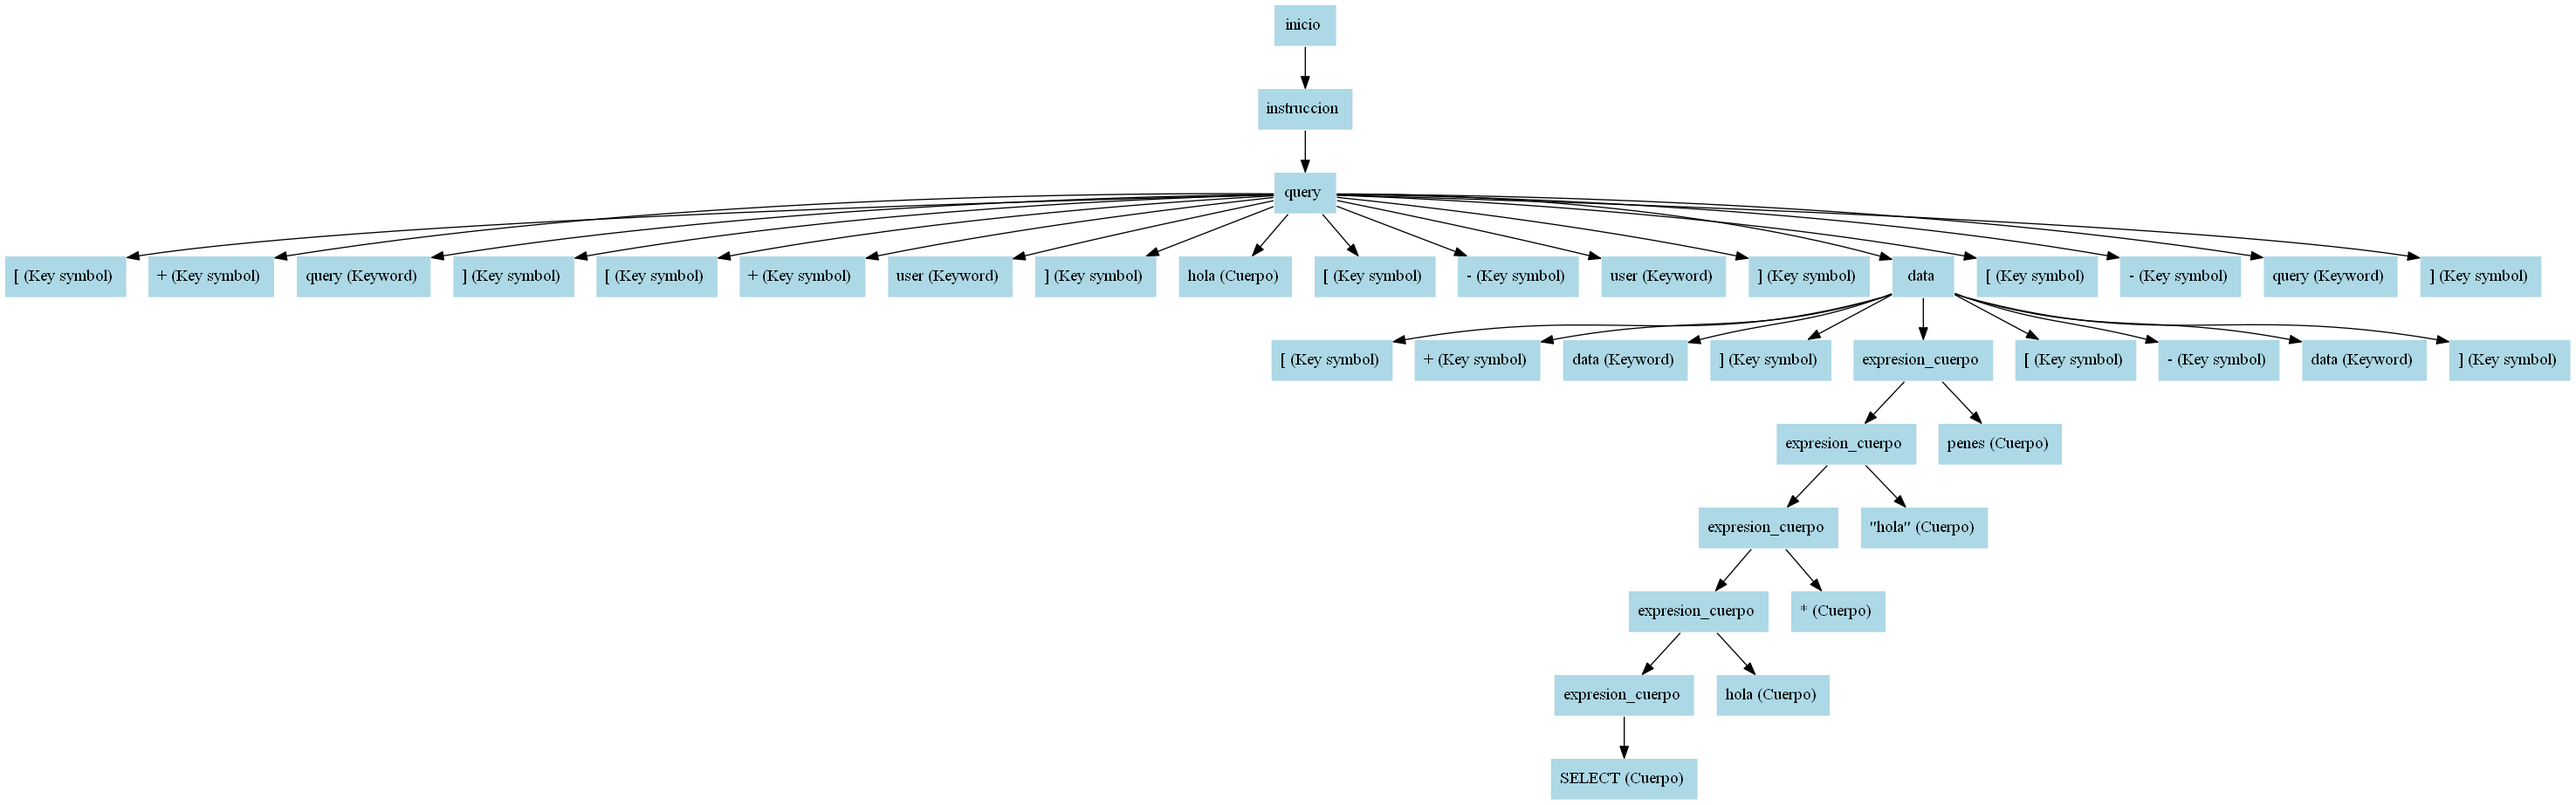
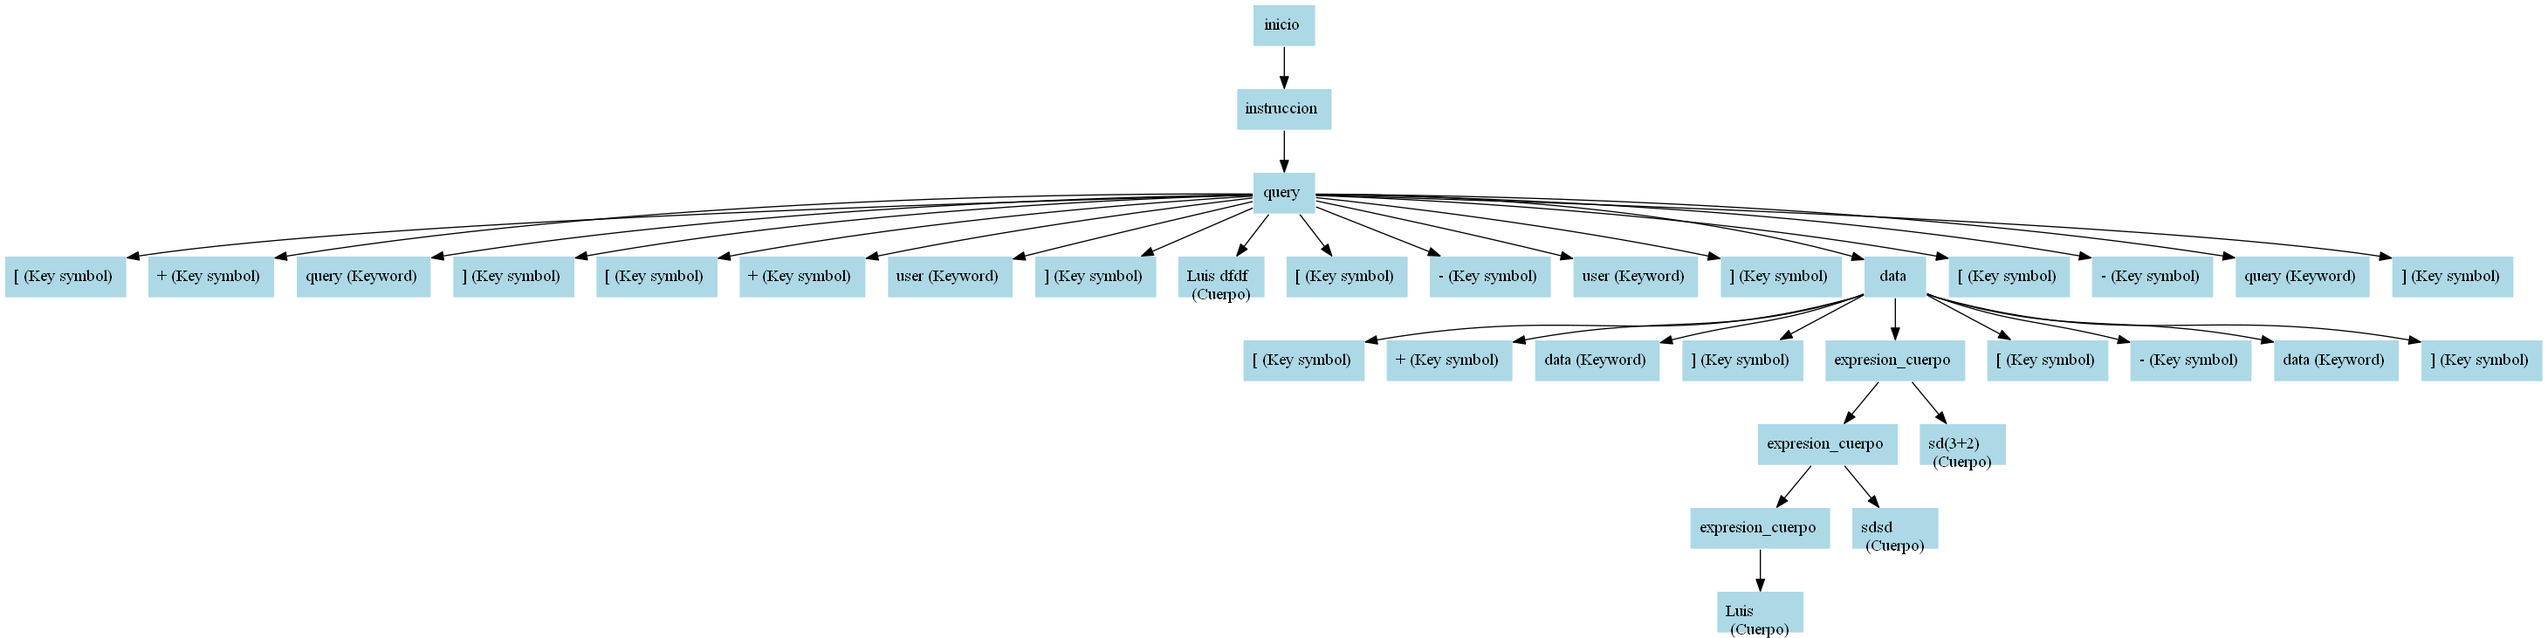
Se corrigio bug en la gramatica donde no aceptaba ( y )

Changed region(s): [[0.0, 0.0, 1.0, 0.9932]]

diff --git a/chat-teacher-server/CQL/Componentes/Expresion.cs b/chat-teacher-server/CQL/Componentes/Expresion.cs
@@ -85,7 +85,7 @@ namespace cql_teacher_server.CQL.Componentes
             //---------------------------------------------------------------------------------------------------------------------------------
 
             //-------------------------------------------------- SUMA -------------------------------------------------------------------------
-            if (operacion.Equals("SUMA"))
+            if (operacion.Equals("SUMA") && op1 != null && op2 != null)
             {
                 if (op1.GetType() == typeof(int) && op2.GetType() == typeof(int)) return (int)op1 + (int)op2;
                 else if (op1.GetType() == typeof(int) && op2.GetType() == typeof(Double)) return (Double)((int)op1 + (Double)op2);
@@ -106,7 +106,7 @@ namespace cql_teacher_server.CQL.Componentes
                 }
             }
             //--------------------------------------------------- RESTA ----------------------------------------------------------------------
-            else if (operacion.Equals("RESTA"))
+            else if (operacion.Equals("RESTA") && op1 != null && op2 != null)
             {
                 if (op1.GetType() == typeof(int) && op2.GetType() == typeof(int)) return (int)op1 - (int)op2;
                 else if (op1.GetType() == typeof(int) && op2.GetType() == typeof(Double)) return (Double)((int)op1 - (Double)op2);
@@ -120,9 +120,9 @@ namespace cql_teacher_server.CQL.Componentes
                 }
             }
             //---------------------------------------------------- MULTIPLICACION --------------------------------------------------------------
-            else if (operacion.Equals("MULTIPLICACION"))
+            else if (operacion.Equals("MULTIPLICACION") && op1 != null && op2 != null)
             {
-                if(op1.GetType() == typeof(int) && op2.GetType() == typeof(int)) return (int)op1 * (int)op2;
+                if (op1.GetType() == typeof(int) && op2.GetType() == typeof(int)) return (int)op1 * (int)op2;
                 else if (op1.GetType() == typeof(int) && op2.GetType() == typeof(Double)) return (Double)((int)op1 * (Double)op2);
                 else if (op1.GetType() == typeof(Double) && op2.GetType() == typeof(int)) return (Double)((Double)op1 * (int)op2);
                 else if (op1.GetType() == typeof(Double) && op2.GetType() == typeof(Double)) return (Double)((Double)op1 * (Double)op2);
@@ -134,12 +134,12 @@ namespace cql_teacher_server.CQL.Componentes
                 }
             }
             //----------------------------------------------------- POTENCIA -------------------------------------------------------------------
-            else if (operacion.Equals("POTENCIA"))
+            else if (operacion.Equals("POTENCIA") && op1 != null && op2 != null)
             {
-                if (op1.GetType() == typeof(int) && op2.GetType() == typeof(int)) return (Double)(Math.Pow((int)op1 , (int)op2));
-                else if (op1.GetType() == typeof(int) && op2.GetType() == typeof(Double)) return (Double)(Math.Pow((int)op1 , (Double)op2));
-                else if (op1.GetType() == typeof(Double) && op2.GetType() == typeof(int)) return (Double)(Math.Pow((Double)op1 , (int)op2));
-                else if (op1.GetType() == typeof(Double) && op2.GetType() == typeof(Double)) return (Double)(Math.Pow((Double)op1 , (Double)op2));
+                if (op1.GetType() == typeof(int) && op2.GetType() == typeof(int)) return (Double)(Math.Pow((int)op1, (int)op2));
+                else if (op1.GetType() == typeof(int) && op2.GetType() == typeof(Double)) return (Double)(Math.Pow((int)op1, (Double)op2));
+                else if (op1.GetType() == typeof(Double) && op2.GetType() == typeof(int)) return (Double)(Math.Pow((Double)op1, (int)op2));
+                else if (op1.GetType() == typeof(Double) && op2.GetType() == typeof(Double)) return (Double)(Math.Pow((Double)op1, (Double)op2));
                 else
                 {
                     Mensaje mes = new Mensaje();
@@ -148,7 +148,7 @@ namespace cql_teacher_server.CQL.Componentes
                 }
             }
             //-------------------------------------------------------MODULO --------------------------------------------------------------------
-            else if (operacion.Equals("MODULO"))
+            else if (operacion.Equals("MODULO") && op1 != null && op2 != null)
             {
                 if (!op2.ToString().Equals("0"))
                 {
@@ -169,10 +169,10 @@ namespace cql_teacher_server.CQL.Componentes
                     mensajes.AddLast(mes.error("No se puede obtener el modulo un divisor 0", linea1, columna1));
                     return null;
                 }
-               
+
             }
             //------------------------------------------------------DIVISION -------------------------------------------------------------------
-            else if (operacion.Equals("DIVISION"))
+            else if (operacion.Equals("DIVISION") && op1 != null && op2 != null)
             {
                 if (!op2.ToString().Equals("0"))
                 {
@@ -194,6 +194,54 @@ namespace cql_teacher_server.CQL.Componentes
                     return null;
                 }
             }
+            //-----------------------------------------------------MAYOR------------------------------------------------------------------------
+            else if (operacion.Equals("MAYOR") && op1 != null && op2 != null)
+            {
+                if (op1.GetType() == typeof(int) && op2.GetType() == typeof(int)) return (int)op1 > (int)op2;
+                else if (op1.GetType() == typeof(int) && op2.GetType() == typeof(Double)) return (int)op1 > (Double)op2;
+                else if (op1.GetType() == typeof(Double) && op2.GetType() == typeof(int)) return (Double)op1 > (int)op2;
+                else if (op1.GetType() == typeof(Double) && op2.GetType() == typeof(Double)) return (Double)op1 > (Double)op2;
+                else if (op1.GetType() == typeof(TimeSpan) && op2.GetType() == typeof(TimeSpan)) return (TimeSpan)op1 > (TimeSpan)op2;
+                else if (op1.GetType() == typeof(DateTime) && op2.GetType() == typeof(DateTime)) return (DateTime)op1 > (DateTime)op2;
+                else
+                {
+                    Mensaje mes = new Mensaje();
+                    mensajes.AddLast(mes.error("No se puede conocer el mayor de   " + op1.ToString() + " con " + op2.ToString(), linea1, columna1));
+                    return null;
+                }
+            }
+            //-----------------------------------------------------MENOR------------------------------------------------------------------------
+            else if (operacion.Equals("MENOR") && op1 != null && op2 != null)
+            {
+                if (op1.GetType() == typeof(int) && op2.GetType() == typeof(int)) return (int)op1 < (int)op2;
+                else if (op1.GetType() == typeof(int) && op2.GetType() == typeof(Double)) return (int)op1 < (Double)op2;
+                else if (op1.GetType() == typeof(Double) && op2.GetType() == typeof(int)) return (Double)op1 < (int)op2;
+                else if (op1.GetType() == typeof(Double) && op2.GetType() == typeof(Double)) return (Double)op1 < (Double)op2;
+                else if (op1.GetType() == typeof(TimeSpan) && op2.GetType() == typeof(TimeSpan)) return (TimeSpan)op1 < (TimeSpan)op2;
+                else if (op1.GetType() == typeof(DateTime) && op2.GetType() == typeof(DateTime)) return (DateTime)op1 < (DateTime)op2;
+                else
+                {
+                    Mensaje mes = new Mensaje();
+                    mensajes.AddLast(mes.error("No se puede conocer el menor de   " + op1.ToString() + " con " + op2.ToString(), linea1, columna1));
+                    return null;
+                }
+            }
+            //-----------------------------------------------------MAYORIGUAL------------------------------------------------------------------------
+            else if (operacion.Equals("MAYORIGUAL") && op1 != null && op2 != null)
+            {
+                if (op1.GetType() == typeof(int) && op2.GetType() == typeof(int)) return (int)op1 >= (int)op2;
+                else if (op1.GetType() == typeof(int) && op2.GetType() == typeof(Double)) return (int)op1 >= (Double)op2;
+                else if (op1.GetType() == typeof(Double) && op2.GetType() == typeof(int)) return (Double)op1 >= (int)op2;
+                else if (op1.GetType() == typeof(Double) && op2.GetType() == typeof(Double)) return (Double)op1 >= (Double)op2;
+                else if (op1.GetType() == typeof(TimeSpan) && op2.GetType() == typeof(TimeSpan)) return (TimeSpan)op1 >= (TimeSpan)op2;
+                else if (op1.GetType() == typeof(DateTime) && op2.GetType() == typeof(DateTime)) return (DateTime)op1 >= (DateTime)op2;
+                else
+                {
+                    Mensaje mes = new Mensaje();
+                    mensajes.AddLast(mes.error("No se puede conocer el menor de   " + op1.ToString() + " con " + op2.ToString(), linea1, columna1));
+                    return null;
+                }
+            }
             //------------------------------------------------- ENTERO -------------------------------------------------------------------------
             else if (operacion.Equals("ENTERO")) return Int32.Parse(valor.ToString());
             //------------------------------------------------- DOUBLE -------------------------------------------------------------------------
@@ -202,7 +250,10 @@ namespace cql_teacher_server.CQL.Componentes
             else if (operacion.Equals("CADENA")) return valor.ToString();
             //--------------------------------------------------- BOOLEAN ----------------------------------------------------------------------
             else if (operacion.Equals("BOOLEAN")) return Boolean.Parse(valor.ToString());
-
+            //---------------------------------------------------- HORA ------------------------------------------------------------------------
+            else if (operacion.Equals("HORA")) return TimeSpan.Parse(valor.ToString());
+            //-----------------------------------------------------FECHA------------------------------------------------------------------------
+            else if (operacion.Equals("FECHA")) return DateTime.Parse(valor.ToString());
             return null;
         }
     }

diff --git a/chat-teacher-server/CQL/Gramatica/GramaticaCQL.cs b/chat-teacher-server/CQL/Gramatica/GramaticaCQL.cs
@@ -15,7 +15,7 @@ namespace cql_teacher_server.CQL.Gramatica
             StringLiteral CADENA = new StringLiteral("cadena", "\"");
             var FECHA = new RegexBasedTerminal("fecha", "\\'\\d{4}-(((0)[0-9])|((1)[0-2]))-([0-2][0-9]|(3)[0-1])\\'");
             var HORA = new RegexBasedTerminal("hora", "\\'(([0-1][0-9])|2[0-3]):([0-2][0-9]):([0-5][0-9])\\'");
-            var DECIMALN = new RegexBasedTerminal("decimal", "[0-9]+.[0-9]+");
+            var DECIMALN = new RegexBasedTerminal("decimal", "[0-9]+\\.[0-9]+");
             var ENTERO = new NumberLiteral("entero");
             
 
@@ -27,9 +27,7 @@ namespace cql_teacher_server.CQL.Gramatica
 
             #region Terminales
             
-            var PTCOMA = ToTerm(";");
-            var LLAVEIZQ = ToTerm("[");
-            var LLAVEDER = ToTerm("]");
+
 
             var NULO = ToTerm("null");
             var INT = ToTerm("int");
@@ -55,8 +53,6 @@ namespace cql_teacher_server.CQL.Gramatica
             var TERNARIO = ToTerm("?");
 
             var DOSPTS = ToTerm(":");
-            var PARIZQ = ToTerm("(");
-            var PARDER = ToTerm("(");
 
             var DIVISION = ToTerm("/");
             var MODULO = ToTerm("%");
@@ -79,13 +75,7 @@ namespace cql_teacher_server.CQL.Gramatica
 
 
 
-            RegisterOperators(1, Associativity.Left, OR);
-            RegisterOperators(2, Associativity.Left, AND,XOR);
-            RegisterOperators(3, Associativity.Right, NEGACION);
-            RegisterOperators(4, Associativity.Left, IGUAIG,MAYOR,MAYORIG,MENOR,MENORIG);
-            RegisterOperators(5, Associativity.Left, SUMA,RESTA);
-            RegisterOperators(6, Associativity.Left, POR,DIVISION,MODULO);
-            RegisterOperators(7, Associativity.Left, POTENCIA);
+            
 
 
 
@@ -113,9 +103,9 @@ namespace cql_teacher_server.CQL.Gramatica
                                | instruccion
                                ;
 
-            instruccion.Rule = use + PTCOMA
-                             | createDatabase + PTCOMA
-                             | expresion
+            instruccion.Rule = use + ";"
+                             | createDatabase + ";"
+                             | expresion + ";"
                              ;
 
             use.Rule = USE + ID;
@@ -130,20 +120,20 @@ namespace cql_teacher_server.CQL.Gramatica
                            | expresion + AND + expresion
                            | expresion + XOR + expresion
                            | NEGACION + expresion
+                           | expresion + IGUAIG + expresion
+                           | expresion + DIFERENTE + expresion
                            | expresion + MAYOR + expresion 
                            | expresion + MENOR + expresion
                            | expresion + MAYORIG + expresion
                            | expresion + MENORIG + expresion
-                           | expresion + IGUAIG + expresion 
-                           | expresion + DIFERENTE + expresion
                            | expresion + SUMA + expresion 
                            | expresion +  RESTA + expresion
                            | expresion + DIVISION + expresion 
                            | expresion + POR + expresion 
                            | expresion + MODULO + expresion 
-                           | expresion + POTENCIA + expresion 
-                           | PARIZQ + expresion + PARDER
+                           | expresion + POTENCIA + expresion
                            | RESTA + expresion
+                           | ToTerm("(") + expresion + ToTerm(")")
                            | ENTERO
                            | ID
                            | CADENA
@@ -158,6 +148,21 @@ namespace cql_teacher_server.CQL.Gramatica
             #endregion
 
             #region Preferencias
+
+            RegisterOperators(1, Associativity.Left, OR);
+            RegisterOperators(2, Associativity.Left, AND, XOR);
+            RegisterOperators(3, Associativity.Left, IGUAIG, DIFERENTE);
+            RegisterOperators(4, Associativity.Left, MAYOR, MAYORIG, MENOR, MENORIG);
+            RegisterOperators(5, Associativity.Left, SUMA, RESTA);
+            RegisterOperators(6, Associativity.Left, POR, DIVISION, MODULO);
+            RegisterOperators(7, Associativity.Right, POTENCIA);
+            RegisterOperators(8, Associativity.Right, NEGACION);
+            RegisterOperators(9, Associativity.Neutral, ToTerm("("), ToTerm(")"));
+
+            this.MarkPunctuation("(", ")",";");
+
+
+
             this.Root = inicio;
             inicio.ErrorRule = SyntaxError + inicio;
             #endregion

diff --git a/chat-teacher-server/LUP/Gramatica/SintacticoLUP.cs b/chat-teacher-server/LUP/Gramatica/SintacticoLUP.cs
@@ -78,14 +78,18 @@ namespace cql_teacher_server.LUP.Gramatica
 
         public Object instruccion(ParseTreeNode actual)
         {
-            string token = actual.ToString().Split(' ')[0].ToLower();
+            string token = actual.Term.Name;
             switch (token)
             {
                 //------------------------------------------- SI EL PAQUETE ES DE LOGUEO --------------------------------------------------------------------------------
                 case "login":
 
-                    string usuario = actual.ChildNodes.ElementAt(8).ToString().Split(' ')[0];
-                    string password = actual.ChildNodes.ElementAt(17).ToString().Split(' ')[0];
+                    string usuario = actual.ChildNodes.ElementAt(8).Token.Text;
+                    usuario = usuario.TrimEnd();
+                    usuario = usuario.TrimStart();
+                    string password = actual.ChildNodes.ElementAt(17).Token.Text;
+                    password = password.TrimEnd();
+                    password = password.TrimStart();
                     return new Usuario(usuario, password);
 
                     break;
@@ -93,13 +97,17 @@ namespace cql_teacher_server.LUP.Gramatica
                 //------------------------------------------ SI EL PAQUETE ES DE LOGOUT -------------------------------------------------------------------------------
 
                 case "logout":
-                    string user = actual.ChildNodes.ElementAt(8).ToString().Split(' ')[0];
+                    string user = actual.ChildNodes.ElementAt(8).Token.Text;
+                    user = user.TrimEnd();
+                    user = user.TrimStart();
                     return new Logout(user);
                     break;
                 //------------------------------------------- SI EL PAQUETE ES DE CONSULTA ----------------------------------------------------------------
 
                 case "query":
-                    string userq = actual.ChildNodes.ElementAt(8).ToString().Split(' ')[0];
+                    string userq = actual.ChildNodes.ElementAt(8).Token.Text;
+                    userq = userq.TrimStart();
+                    userq = userq.TrimEnd();
                     string sql =(string) instruccion(actual.ChildNodes.ElementAt(13));
                     return new Consulta(userq, sql);
                     break;
@@ -114,12 +122,12 @@ namespace cql_teacher_server.LUP.Gramatica
                     if(actual.ChildNodes.Count == 2)
                     {
                         //----------------------------------- expresion_cuerpo CUERPO------------------------------------------------------------------
-                        string cuerpo = actual.ChildNodes.ElementAt(1).ToString().Split("(")[0];
+                        string cuerpo = actual.ChildNodes.ElementAt(1).Token.Text;
                         return instruccion(actual.ChildNodes.ElementAt(0)) + cuerpo;
                     }
                     else
                     {
-                        return actual.ChildNodes.ElementAt(0).ToString().Split("(")[0];
+                        return actual.ChildNodes.ElementAt(0).Token.Text;
                     }
                     break;
 

diff --git a/chat-teacher-server/CQL/Gramatica/SintacticoCQL.cs b/chat-teacher-server/CQL/Gramatica/SintacticoCQL.cs
@@ -165,7 +165,7 @@ namespace cql_teacher_server.CQL.Gramatica
 
         /*
          * Metodo que resuelve las expresiones aritmeticas,logicas
-         * 
+         * @raiz nodo principal de la lista de expresiones
          */
 
 
@@ -248,6 +248,9 @@ namespace cql_teacher_server.CQL.Gramatica
             else if (token.Equals("**")) return "POTENCIA";
             else if (token.Equals("%")) return "MODULO";
             else if (token.Equals("/")) return "DIVISION";
+            else if (token.Equals(">")) return "MAYOR";
+            else if (token.Equals("<")) return "MENOR";
+            else if (token.Equals(">=")) return "MAYORIGUAL";
             return "none";
         }
 
@@ -268,8 +271,20 @@ namespace cql_teacher_server.CQL.Gramatica
                 valor = valor.TrimStart('"');
                 return new Expresion(valor, "CADENA", l1, c1);
             }
+            else if (token.Equals("hora"))
+            {
+                valor = valor.TrimEnd('\'');
+                valor = valor.TrimStart('\'');
+                return new Expresion(valor, "HORA", l1, c1);
+            }
+            else if (token.Equals("fecha"))
+            {
+                valor = valor.TrimEnd('\'');
+                valor = valor.TrimStart('\'');
+                return new Expresion(valor, "FECHA", l1, c1);
+            }
             else if (valor.Equals("True") || valor.Equals("False")) return new Expresion(valor, "BOOLEAN", l1, c1);
-            return null;
+            else return new Expresion(null, "NULL", l1, c1);
         }
     }
 }

diff --git a/chat-teacher-server/LUP/Gramatica/GramaticaLUP.cs b/chat-teacher-server/LUP/Gramatica/GramaticaLUP.cs
@@ -10,10 +10,8 @@ namespace cql_teacher_server.LUP.Gramatica
     {
         public GramaticaLUP() : base(caseSensitive: false)
         {
-            #region ER
-            var CUERPO = new RegexBasedTerminal("Cuerpo", "[^\n []+");
 
-            #endregion
+            
 
             #region Terminales
 
@@ -32,6 +30,12 @@ namespace cql_teacher_server.LUP.Gramatica
 
             #endregion
 
+            #region ER
+            var CUERPO = new RegexBasedTerminal("Cuerpo", "[^\n\\[]+");
+
+            #endregion
+
+
             #region No Terminales
 
             NonTerminal inicio = new NonTerminal("inicio");
@@ -46,6 +50,9 @@ namespace cql_teacher_server.LUP.Gramatica
 
 
             #endregion
+            
+           
+
 
             #region Gramatica
 
